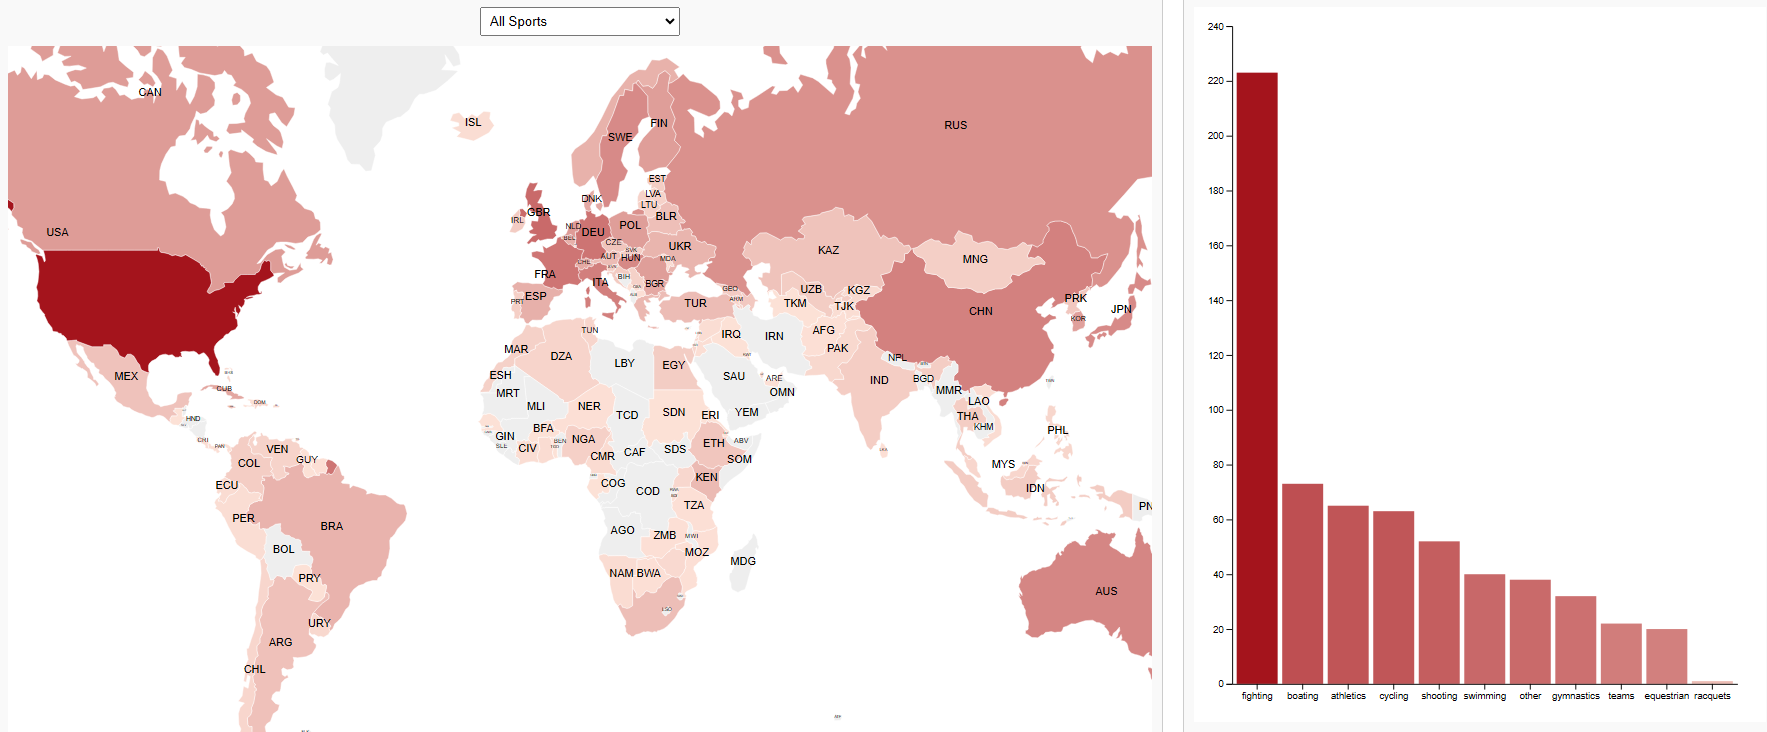
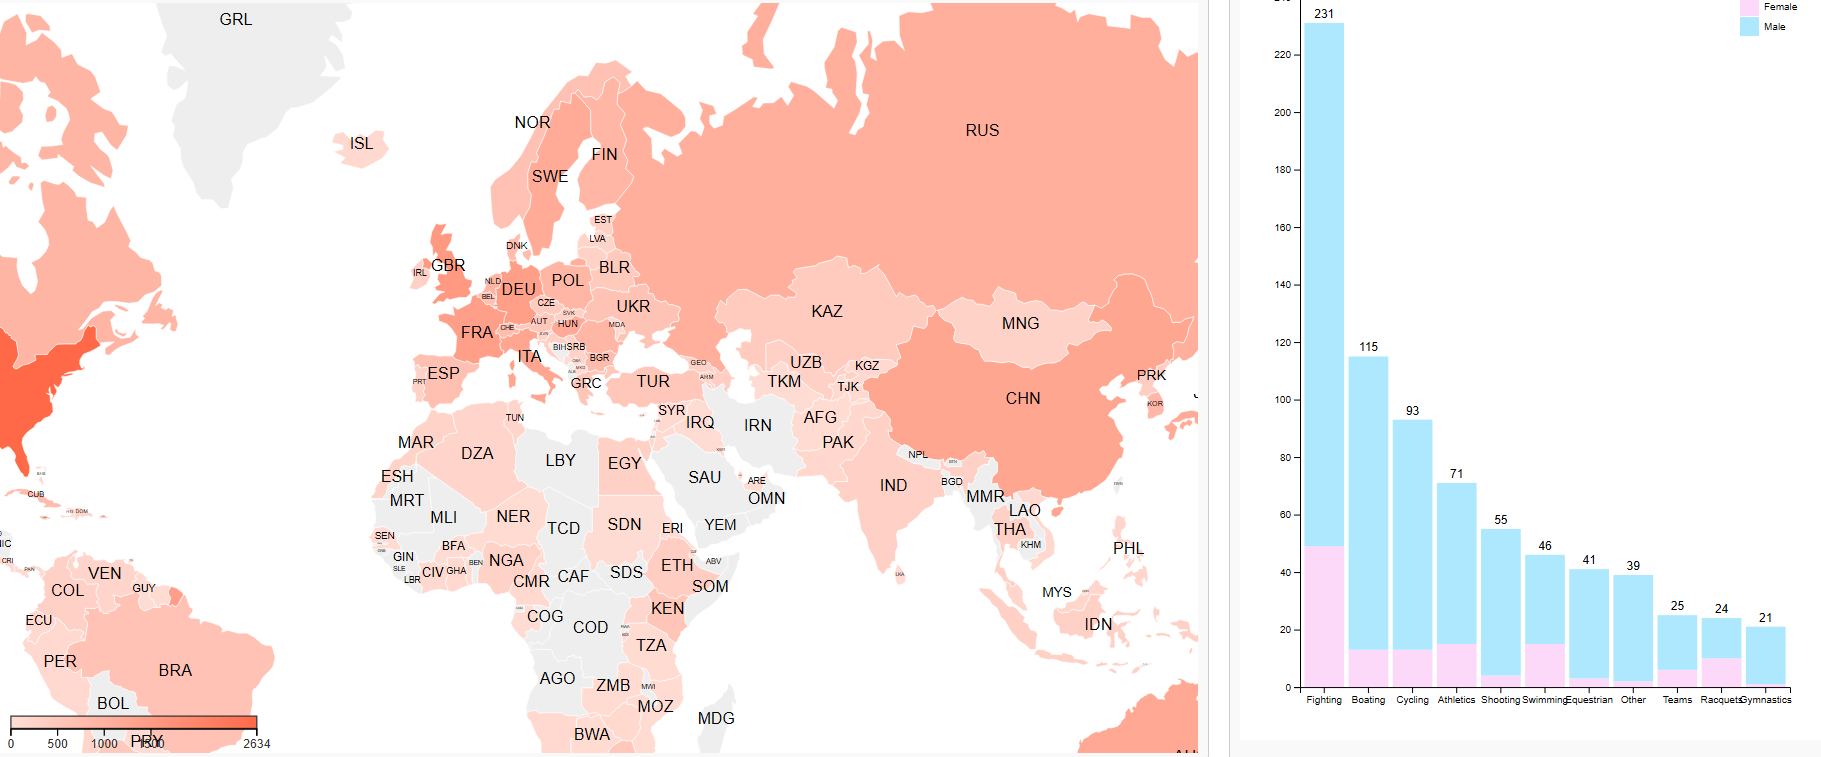
changed choropleth map image for index and added description

diff --git a/index.html b/index.html
@@ -101,7 +101,7 @@
     <div class="container">
         <div class="header">
             <h1>Data Visualization Dashboard</h1>
-            <p>Explore different interactive network visualizations</p>
+            <p>Explore different interactive visualizations</p>
         </div>
 
         <div class="visualization-grid">
@@ -115,7 +115,7 @@
             <div class="visualization-card">
                 <img src="resources/img/geographical.png" alt="Cloropleth Path preview">
                 <h2>Choropleth Path</h2>
-                <p>Description of your second graph visualization.</p>
+                <p>Choropleth Map for the visualization of medals distribution among the nations and the disciplines with the most success in a given nation</p>
                 <a href="code/geographical/map.html" class="view-button">View Visualization</a>
             </div>
 

diff --git a/code/geographical/map.html b/code/geographical/map.html
@@ -492,7 +492,7 @@
             olympicData.links.forEach((link) => {
                 if (link.target === realId) {
                     sportsSet.forEach((sport) => {
-                        if (link.source === sport) {
+                        if (link.source === sport.toLowerCase()) {
                             if (!sportsMedals[sport]) {
                                 sportsMedals[sport] = {
                                     male: 0,
